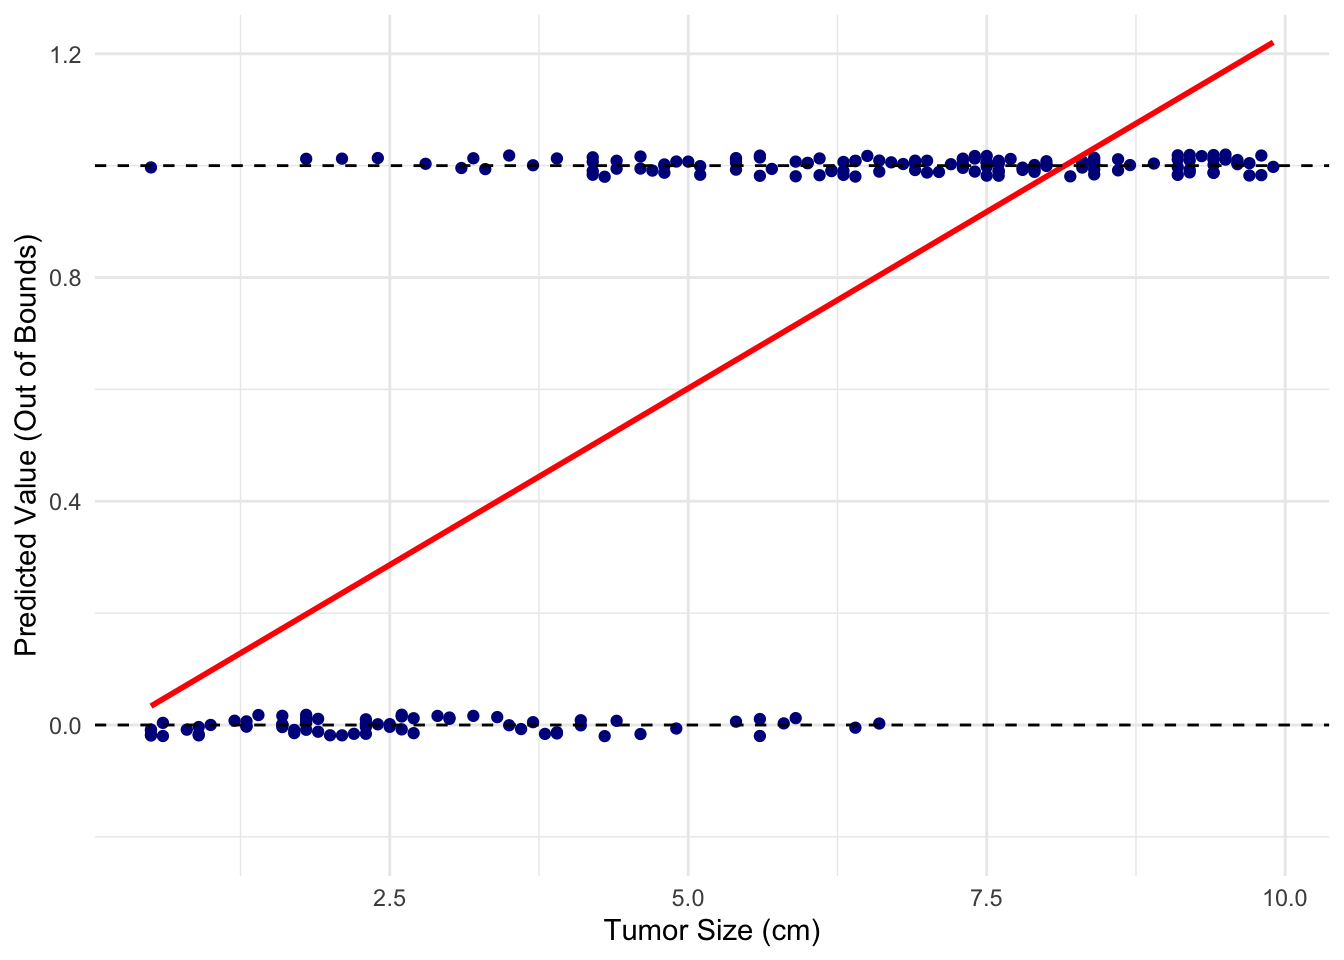
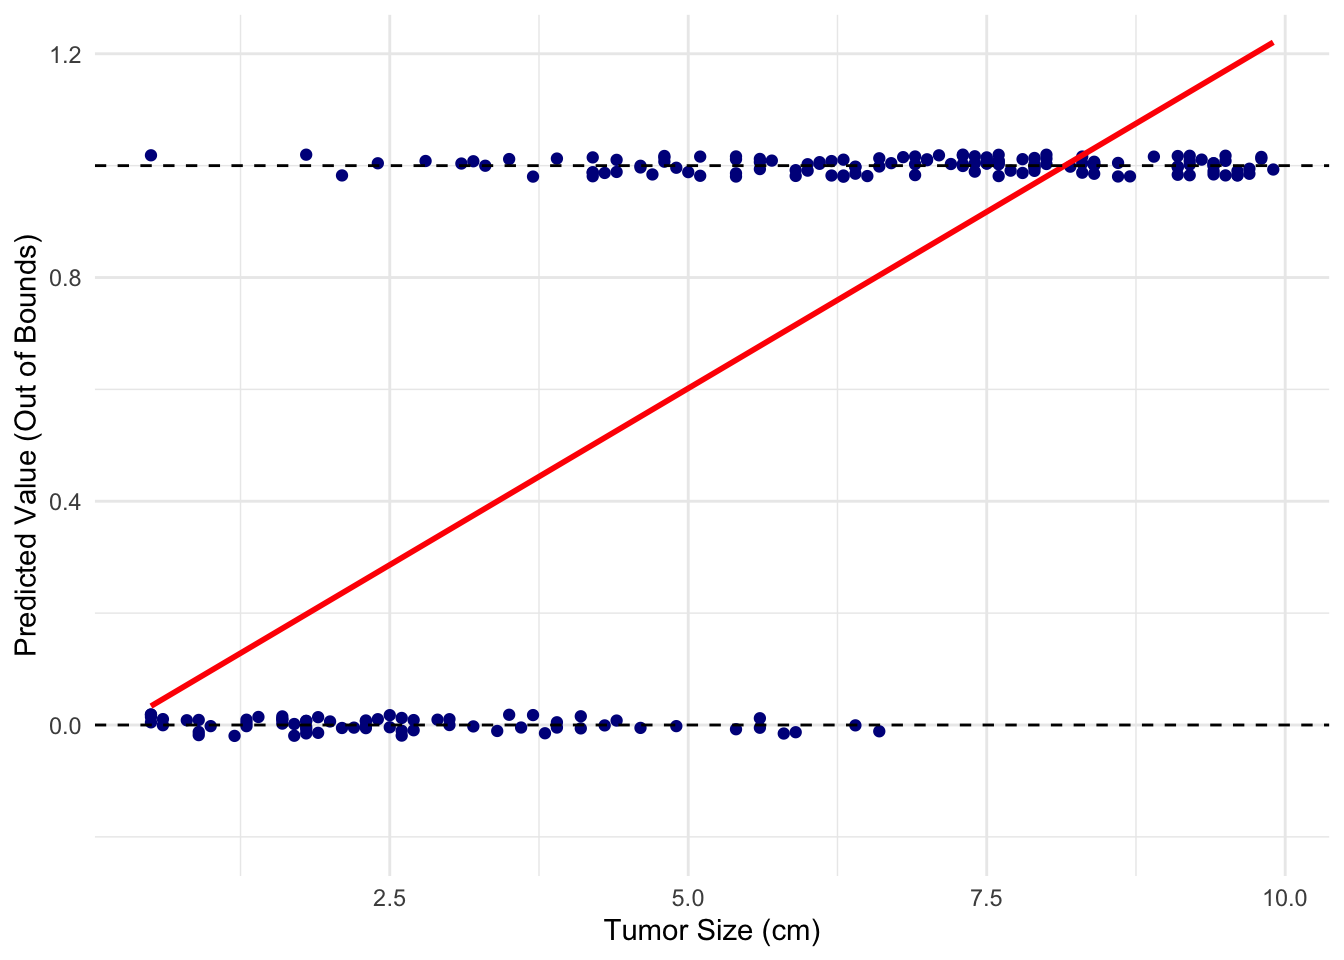
Built site for gh-pages

diff --git a/index.html b/index.html
@@ -180,7 +180,7 @@ ul.task-list li input[type="checkbox"] {
   <li><a href="#overview" id="toc-overview" class="nav-link active" data-scroll-target="#overview">Overview</a></li>
   <li><a href="#prerequisites-and-expectations" id="toc-prerequisites-and-expectations" class="nav-link" data-scroll-target="#prerequisites-and-expectations">Prerequisites and Expectations</a></li>
   <li><a href="#workshop-registration" id="toc-workshop-registration" class="nav-link" data-scroll-target="#workshop-registration">Workshop Registration</a></li>
-  <li><a href="#schedule-for-2026" id="toc-schedule-for-2026" class="nav-link" data-scroll-target="#schedule-for-2026">Schedule for 2026</a></li>
+  <li><a href="#schedule-for-2027" id="toc-schedule-for-2027" class="nav-link" data-scroll-target="#schedule-for-2027">Schedule for 2027</a></li>
   <li><a href="#contact-us" id="toc-contact-us" class="nav-link" data-scroll-target="#contact-us">Contact Us</a></li>
   </ul>
 </nav>
@@ -229,18 +229,11 @@ ul.task-list li input[type="checkbox"] {
 <section id="workshop-registration" class="level2">
 <h2 class="anchored" data-anchor-id="workshop-registration">Workshop Registration</h2>
 <ul>
-<li>WWAMI students:
-<ul>
-<li>No action needed if you have been in contact with IOURMR Research Core regarding your project already.</li>
-</ul></li>
-<li>Students from other SHAMP programs or other academic units:
-<ul>
 <li>Email Yesol and Nick (<a href="#contact-us">Contact Us</a>) and let us know your intent to participate.</li>
-</ul></li>
 </ul>
 </section>
-<section id="schedule-for-2026" class="level2">
-<h2 class="anchored" data-anchor-id="schedule-for-2026">Schedule for 2026</h2>
+<section id="schedule-for-2027" class="level2">
+<h2 class="anchored" data-anchor-id="schedule-for-2027">Schedule for 2027</h2>
 <table class="caption-top table">
 <colgroup>
 <col style="width: 15%">
@@ -257,27 +250,27 @@ ul.task-list li input[type="checkbox"] {
 <tbody>
 <tr class="odd">
 <td style="text-align: left;"><strong>Session 0</strong></td>
-<td style="text-align: left;">May 18, 11am-12pm</td>
+<td style="text-align: left;">TBD</td>
 <td style="text-align: left;">• Orientation to the Workbench and Workshop</td>
 </tr>
 <tr class="even">
 <td style="text-align: left;"><strong>Session 1</strong></td>
-<td style="text-align: left;">May 21, 10am-12pm</td>
+<td style="text-align: left;">TBD</td>
 <td style="text-align: left;">• Introduction to cloud computing and Researcher Workbench<br>• Super-brief introduction to relational database structures and queries<br>• Selecting cohorts and building your dataset</td>
 </tr>
 <tr class="odd">
 <td style="text-align: left;"><strong>Session 2</strong></td>
-<td style="text-align: left;">May 22, 10am-12pm</td>
+<td style="text-align: left;">TBD</td>
 <td style="text-align: left;">• Introduction to R<br>• Working with dataframes in R<br>• Obtaining query results and data wrangling</td>
 </tr>
 <tr class="even">
 <td style="text-align: left;"><strong>Session 3</strong></td>
-<td style="text-align: left;">May 28, 10am-12pm</td>
+<td style="text-align: left;">TBD</td>
 <td style="text-align: left;">• More data wrangling<br>• Exploratory data analysis<br>• Data visualization</td>
 </tr>
 <tr class="odd">
 <td style="text-align: left;"><strong>Session 4</strong></td>
-<td style="text-align: left;">May 29, 10am-12pm</td>
+<td style="text-align: left;">TBD</td>
 <td style="text-align: left;">• Performing statistical tests<br>• Fitting regression models</td>
 </tr>
 </tbody>
@@ -292,12 +285,12 @@ ul.task-list li input[type="checkbox"] {
 <div class="column" style="width:45%;">
 <section id="yesol-sapozhnikov-phd-rn" class="level4">
 <h4 class="anchored" data-anchor-id="yesol-sapozhnikov-phd-rn">Yesol Sapozhnikov, PhD, RN</h4>
-<p>Postdoctoral Fellow</p>
+<p>Clinical Assistant Professor</p>
 <ul>
 <li>Workshop inquiries</li>
 <li><em>All of Us</em> data questions</li>
 </ul>
-<p><strong>Office:</strong> D.A. Huckabay Medical Education Bldg 122C<br>
+<p><strong>Office:</strong> D.A. Huckabay Medical Education Bldg 194<br>
 <strong>Email:</strong> <a href="mailto:yesols@uidaho.edu">yesols@uidaho.edu</a></p>
 </section>
 </div><div class="column" style="width:10%;">
